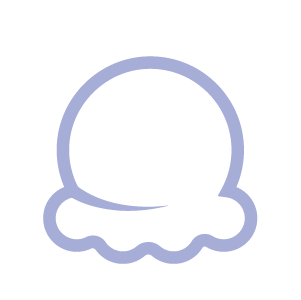
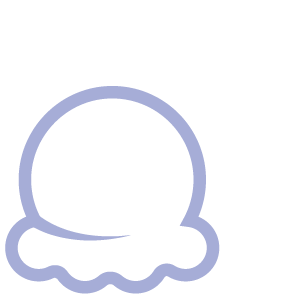
chchchanges

Changed region(s): [[0.0, 0.18, 0.8671, 0.99]]

diff --git a/menu.html b/menu.html
@@ -11,12 +11,16 @@
 
   </head>
 
+    <style>
+      /* body div {border:1px solid red;} */
+    </style>
+
   <body>
     <!-- Header -->
     <nav class="navbar navbar-expand-lg navbar-light">
       <div class="container-fluid">
       <a class="col-sm-3"  href="index.html">
-          <img src="./photos/glacee_logo.png" alt:"glacee" width="250">
+          <img src="./photos/glacee_logo.png" alt:"glacee" width="350">
       </a>
         <button class="navbar-toggler" type="button" data-bs-toggle="collapse" data-bs-target="#navbarNavAltMarkup" aria-controls="navbarNavAltMarkup" aria-expanded="false" aria-label="Toggle navigation">
           <span class="navbar-toggler-icon"></span>
@@ -86,7 +90,7 @@
 
   <div class="col-sm-1">
     <a class= "background-image">
-      <img src= "./photos/business graphics_ALCOHOL_beer.png" height="100" alt="beer">
+      <img src= "./photos/business graphics_ALCOHOL_beer.png" height="150" alt="beer">
     </a>
   </div>
 
@@ -96,7 +100,7 @@
 
   <div class="col-sm-1">
     <a class= "background-image">
-      <img src= "./photos/business graphics_ALCOHOL_red wine.png" height="100" alt="red wine">
+      <img src= "./photos/business graphics_ALCOHOL_red wine.png" height="150" alt="red wine">
     </a>
  </div>
 
@@ -106,7 +110,7 @@
 
    <div class="col-sm-1">
      <a class= "background-image">
-       <img src= "./photos/business graphics_ALCOHOL_white wine.png" height="100" alt="white wine">
+       <img src= "./photos/business graphics_ALCOHOL_white wine.png" height="150" alt="white wine">
      </a>
   </div>
 
@@ -116,7 +120,7 @@
 
     <div class="col-sm-1">
       <a class= "background-image">
-        <img src= "./photos/business graphics_ALCOHOL_vodka.png" height="100" alt="vodka">
+        <img src= "./photos/business graphics_ALCOHOL_vodka.png" height="150" alt="vodka">
       </a>
     </div>
 
@@ -179,7 +183,7 @@
 
   <div class="col-sm-1">
     <a class= "background-image">
-      <img src= "./photos/business graphics_ALCOHOL_rum.png" height="100" alt="rum">
+      <img src= "./photos/business graphics_ALCOHOL_rum.png" height="150" alt="rum">
     </a>
   </div>
 
@@ -189,7 +193,7 @@
 
   <div class="col-sm-1">
     <a class= "background-image">
-      <img src= "./photos/business graphics_ALCOHOL_tequila.png" height="100" alt="tequila">
+      <img src= "./photos/business graphics_ALCOHOL_tequila.png" height="150" alt="tequila">
     </a>
  </div>
 
@@ -199,7 +203,7 @@
 
    <div class="col-sm-1">
      <a class= "background-image">
-       <img src= "./photos/business graphics_ALCOHOL_whiskey.png" height="100" alt="whiskey">
+       <img src= "./photos/business graphics_ALCOHOL_whiskey.png" height="150" alt="whiskey">
      </a>
   </div>
 
@@ -279,7 +283,7 @@
 
   <div class="col-sm-1">
     <a class= "background-image">
-      <img src= "./photos/business graphics_ICE CREAM_vanilla.png" height="100" alt="vanilla ice cream">
+      <img src= "./photos/business graphics_ICE CREAM_vanilla.png" height="150" alt="vanilla ice cream">
     </a>
   </div>
 
@@ -289,7 +293,7 @@
 
   <div class="col-sm-1">
     <a class= "background-image">
-      <img src= "./photos/business graphics_ICE CREAM_chocolate.png" height="100" alt="chocolate ice cream">
+      <img src= "./photos/business graphics_ICE CREAM_chocolate.png" height="150" alt="chocolate ice cream">
     </a>
  </div>
 
@@ -299,7 +303,7 @@
 
    <div class="col-sm-1">
      <a class= "background-image">
-       <img src= "./photos/business graphics_ICE CREAM_coffee.png" height="100" alt="coffee ice cream">
+       <img src= "./photos/business graphics_ICE CREAM_coffee.png" height="150" alt="coffee ice cream">
      </a>
   </div>
 
@@ -309,7 +313,7 @@
 
     <div class="col-sm-1">
       <a class= "background-image">
-        <img src= "./photos/business graphics_ICE CREAM_lavender.png" height="100" alt="lavender ice cream">
+        <img src= "./photos/business graphics_ICE CREAM_lavender.png" height="150" alt="lavender ice cream">
       </a>
     </div>
 
@@ -373,7 +377,7 @@
 
   <div class="col-sm-1">
     <a class= "background-image">
-      <img src= "./photos/business graphics_ICE CREAM_mango.png" height="100" alt="mango ice cream">
+      <img src= "./photos/business graphics_ICE CREAM_mango.png" height="150" alt="mango ice cream">
     </a>
   </div>
 
@@ -383,7 +387,7 @@
 
   <div class="col-sm-1">
     <a class= "background-image">
-      <img src= "./photos/business graphics_ICE CREAM_berry.png" height="100" alt="berry ice cream">
+      <img src= "./photos/business graphics_ICE CREAM_berry.png" height="150" alt="berry ice cream">
     </a>
  </div>
 
@@ -393,7 +397,7 @@
 
    <div class="col-sm-1">
      <a class= "background-image">
-       <img src= "./photos/business graphics_ICE CREAM_mint.png" height="100" alt="mint ice cream">
+       <img src= "./photos/business graphics_ICE CREAM_mint.png" height="150" alt="mint ice cream">
      </a>
   </div>
 
@@ -475,7 +479,7 @@
 
   <div class="col-sm-1">
     <a class= "background-image">
-      <img src= "./photos/business graphics_TOPPINGS_berries.png" height="100" alt="berries">
+      <img src= "./photos/business graphics_TOPPINGS_berries.png" height="150" alt="berries">
     </a>
   </div>
 
@@ -485,7 +489,7 @@
 
   <div class="col-sm-1">
     <a class= "background-image">
-      <img src= "./photos/business graphics_TOPPINGS_chocolate shavings.png" height="100" alt="chocolate shavings">
+      <img src= "./photos/business graphics_TOPPINGS_chocolate shavings.png" height="150" alt="chocolate shavings">
     </a>
  </div>
 
@@ -495,7 +499,7 @@
 
    <div class="col-sm-1">
      <a class= "background-image">
-       <img src= "./photos/business graphics_TOPPINGS_cookie dough.png" height="100" alt="cookie dough">
+       <img src= "./photos/business graphics_TOPPINGS_cookie dough.png" height="150" alt="cookie dough">
      </a>
   </div>
 
@@ -505,7 +509,7 @@
 
     <div class="col-sm-1">
       <a class= "background-image">
-        <img src= "./photos/business graphics_TOPPINGS_coconut shavings.png" height="100" alt="coconut shavings">
+        <img src= "./photos/business graphics_TOPPINGS_coconut shavings.png" height="150" alt="coconut shavings">
       </a>
     </div>
 
@@ -568,7 +572,7 @@
 
   <div class="col-sm-1">
     <a class= "background-image">
-      <img src= "./photos/business graphics_TOPPINGS_hot fudge.png" height="100" alt="hot fudge">
+      <img src= "./photos/business graphics_TOPPINGS_hot fudge.png" height="150" alt="hot fudge">
     </a>
   </div>
 
@@ -578,7 +582,7 @@
 
   <div class="col-sm-1">
     <a class= "background-image">
-      <img src= "./photos/business graphics_TOPPINGS_lavender buds.png" height="100" alt="lavender buds">
+      <img src= "./photos/business graphics_TOPPINGS_lavender buds.png" height="150" alt="lavender buds">
     </a>
  </div>
 
@@ -588,7 +592,7 @@
 
    <div class="col-sm-1">
      <a class= "background-image">
-       <img src= "./photos/business graphics_TOPPINGS_lemon shavings.png" height="100" alt="lemon shavings">
+       <img src= "./photos/business graphics_TOPPINGS_lemon shavings.png" height="150" alt="lemon shavings">
      </a>
   </div>
 
@@ -660,7 +664,7 @@
 
   <div class="col-sm-1">
     <a class= "background-image">
-      <img src= "./photos/business graphics_TOPPINGS_mint.png" height="100" alt="mint">
+      <img src= "./photos/business graphics_TOPPINGS_mint.png" height="150" alt="mint">
     </a>
   </div>
 
@@ -670,7 +674,7 @@
 
   <div class="col-sm-1">
     <a class= "background-image">
-      <img src= "./photos/business graphics_TOPPINGS_oreos.png" height="100" alt="oreos">
+      <img src= "./photos/business graphics_TOPPINGS_oreos.png" height="150" alt="oreos">
     </a>
  </div>
 
@@ -680,7 +684,7 @@
 
    <div class="col-sm-1">
      <a class= "background-image">
-       <img src= "./photos/business graphics_TOPPINGS_whipped cream.png" height="100" alt="whipped cream">
+       <img src= "./photos/business graphics_TOPPINGS_whipped cream.png" height="150" alt="whipped cream">
      </a>
   </div>
 

diff --git a/index.html b/index.html
@@ -10,7 +10,7 @@
     <!-- links to style sheets, google fonts, etc. go here -->
     <style>
 
-    /*body div {border:1px solid red;}*/
+    /* body div {border:1px solid red;} */
     </style>
 
   </head>
@@ -20,7 +20,7 @@
 <nav class="navbar navbar-expand-lg navbar-light">
   <div class="container-fluid">
   <a class="col-sm-3">
-      <img src="./photos/glacee_logo.png" alt:"glacee" width="250">
+      <img src="./photos/glacee_logo.png" alt:"glacee" width="350">
   </a>
     <button class="navbar-toggler" type="button" data-bs-toggle="collapse" data-bs-target="#navbarNavAltMarkup" aria-controls="navbarNavAltMarkup" aria-expanded="false" aria-label="Toggle navigation">
       <span class="navbar-toggler-icon"></span>
@@ -77,7 +77,7 @@
 
   <div class="col-sm-6 aboutus">
         <h2> About Us </h2>
-        <h4 class="lh-base"> Glacée provides a plethora of drink options, with the twist of combining alcohol and ice cream.
+        <h4 class="lh-base"> Glac&eacute;e provides a plethora of drink options, with the twist of combining alcohol and ice cream.
           The menu consists of high quality alcohol from all over the world, ice cream with dairy free options
           and a variety of toppings. We aim to please our customers with executing any and every combination the
           customer requests.</h4>
@@ -96,10 +96,10 @@
 
     <div class="col-sm-6 bartenders">
         <h2> Bartenders </h2>
-        <h4 class="lh-base"> Glacée employs passionate bartenders aiming to please every customer based each of
+        <h4 class="lh-base"> Glac&eacute;e employs passionate bartenders aiming to please every customer based each of
           their taste palates. The bartenders have all come with at least 3 years of experience and have mastered
           the art of making exquisite beverages. Each one has experienced the professional training from the
-          bartender that started with Glacée years ago.</h4>
+          bartender that started with Glac&eacute;e years ago.</h4>
     </div>
 
       <a class= "background-image">

diff --git a/css/styles.css b/css/styles.css
@@ -4,7 +4,7 @@
 h1{font-family: quiche-sans, sans-serif;
 font-weight: 700;
 font-style: normal;
-font-size: 25pt;
+font-size: 32pt;
 }
 
 h2{font-family: quiche-sans, sans-serif;
@@ -15,7 +15,7 @@ font-size: 36pt}
 h3{font-family: darkmode-on, sans-serif;
   font-weight: 300;
   text-align: left;
-  font-size: 12pt ;
+  font-size: 14pt ;
   margin-top: 15pt;
   font-size-adjust: auto;
 }
@@ -23,14 +23,14 @@ h3{font-family: darkmode-on, sans-serif;
 h4{font-family: darkmode-on, sans-serif;
   font-weight: 300;
   font-style: normal;
-  font-size: 10pt;
+  font-size: 12pt;
   line-height: 2;
   }
 
 h5{font-family: darkmode-on, sans-serif;
     font-weight: 300;
     font-style: normal;
-    font-size: 10pt;
+    font-size: 12pt;
     line-height: 2;
     margin-top:20px;
     }
@@ -38,7 +38,7 @@ h5{font-family: darkmode-on, sans-serif;
 h6{font-family: quiche-sans, sans-serif;
     font-weight: 700;
     font-style: normal;
-    font-size: 25pt;
+    font-size: 32pt;
     margin-top:50px
   }
 
@@ -47,9 +47,9 @@ h6{font-family: quiche-sans, sans-serif;
 /* footer */
   .image {
     background: url("../photos/business graphics_footer.jpg");
-    height: 100%;
-    position: relative;
-    background-size:cover;
+    height: "400"; 
+    position: center;
+    background-size: auto;
   }
 
 /* menu link */
